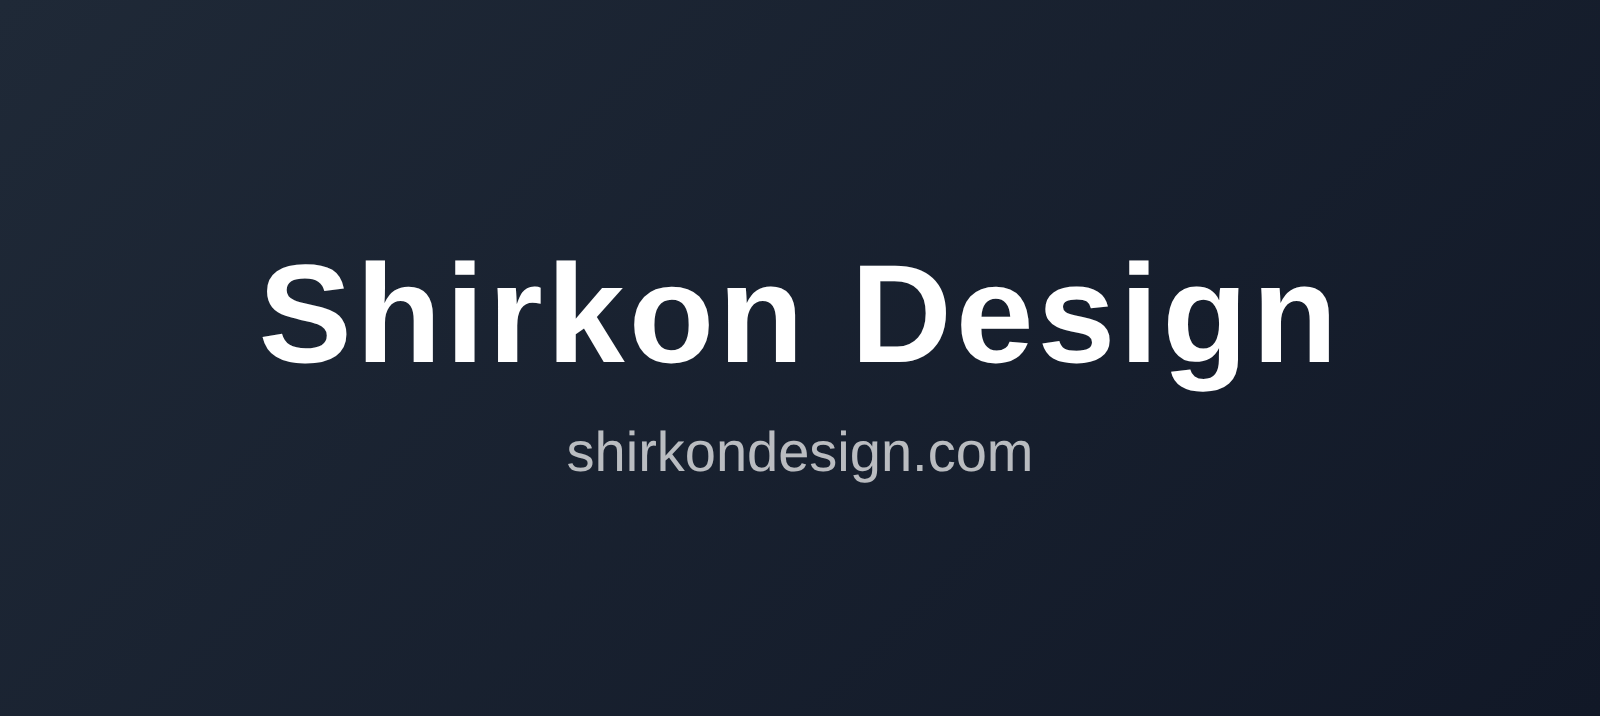
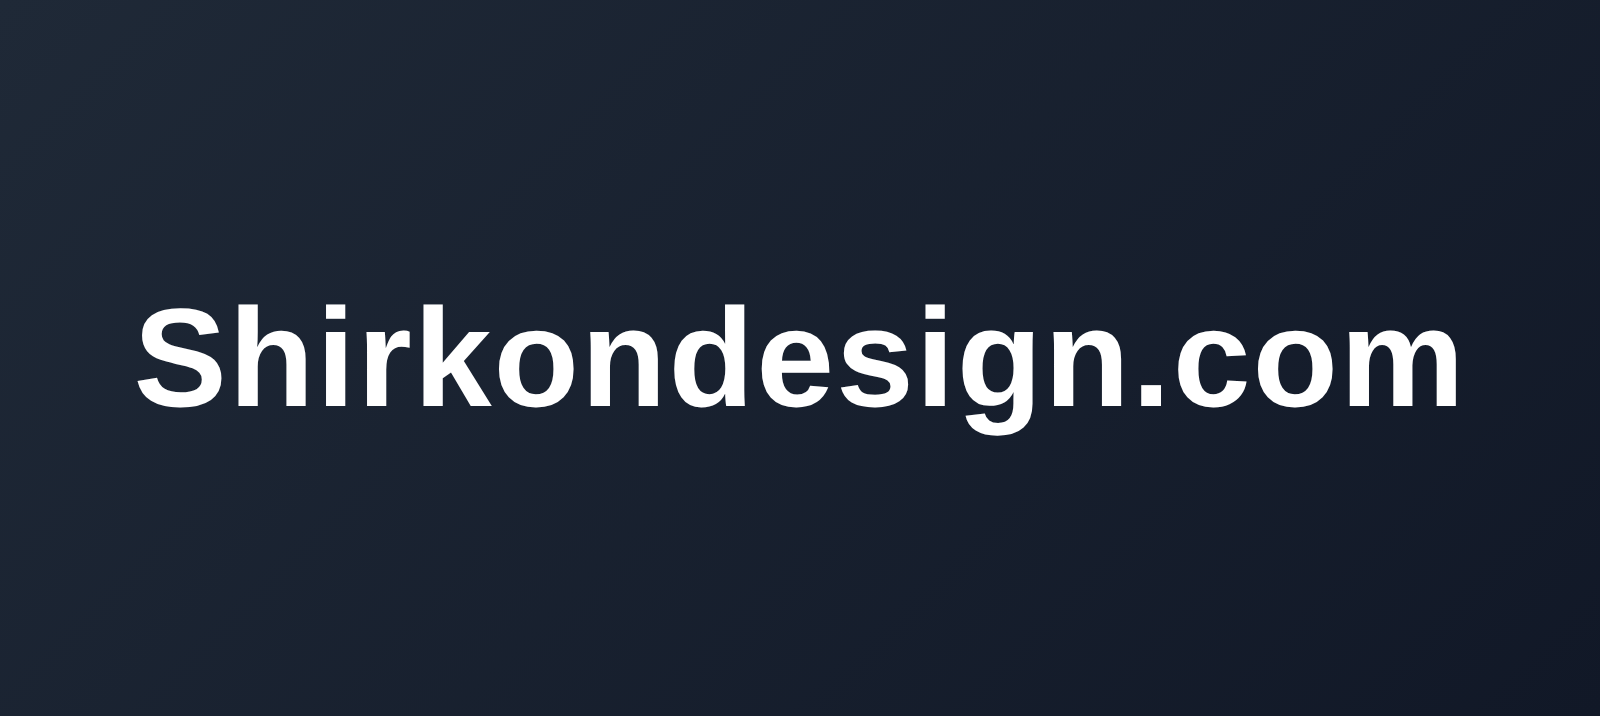
Rename portfolio card to Shirkondesign.com
Claude-Session: https://claude.ai/code/session_01LJuZTNpWTUedUjNvCUvs8K

Changed region(s): [[0.0625, 0.3687, 0.9375, 0.676]]

diff --git a/src/components/Portfolio/index.js b/src/components/Portfolio/index.js
@@ -69,7 +69,7 @@ function Portfolio() {
 			deployed: 'https://redux-heroku-store.herokuapp.com/',
 		},
 		{
-			name: 'Shirkon Design',
+			name: 'Shirkondesign.com',
 			image: 'shirkon-design.png',
 			technologies: ['Web Design'],
 			deployed: 'https://shirkondesign.com',
